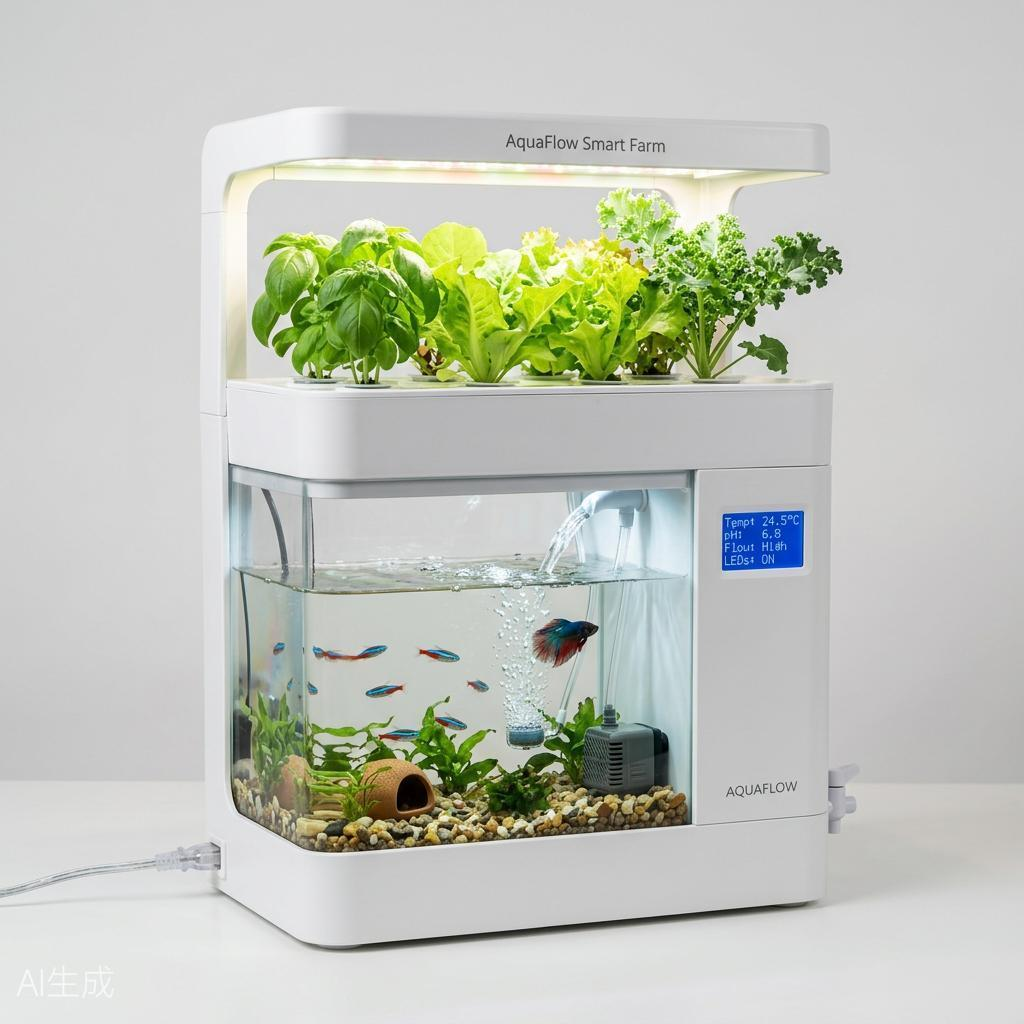
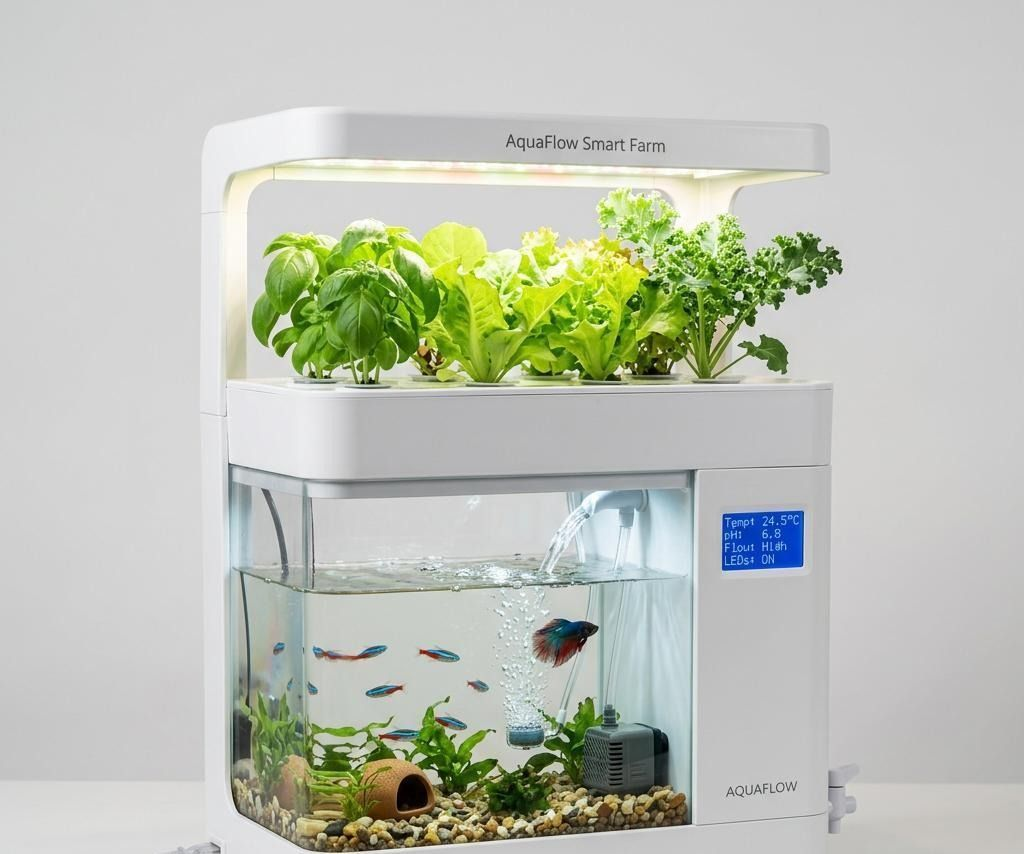
Remove AI-generation watermark from every product/facility photo
Every image in public/ had a visible "AI生成" (AI-generated) text
watermark baked into the bottom-left corner, appearing on every
product card, product detail page, and hero image sitewide. Cropped
the bottom of each image (~170px, the watermark sat at a consistent
absolute pixel position across all resolutions) to remove it
cleanly without cutting into the actual product content.

Also updates the company location from Amsterdam/Netherlands to
Hamburg/Germany across Contact (address, phone, embedded map),
Footer, Privacy Policy, Terms of Service (governing law/
jurisdiction), and the Sustainability page's manufacturing claim.

diff --git a/app/contact/page.tsx b/app/contact/page.tsx
@@ -197,7 +197,7 @@ function ContactFormAndInfo() {
                 <Phone className="h-5 w-5 text-teal" />
                 <h4 className="font-heading text-h4 text-navy">Phone</h4>
               </div>
-              <p className="text-body-sm text-navy">+31 20 123 4567</p>
+              <p className="text-body-sm text-navy">+49 40 123 4567</p>
               <p className="text-body-sm text-gray-500">Mon-Fri, 9:00-18:00 CET</p>
             </motion.div>
 
@@ -209,9 +209,7 @@ function ContactFormAndInfo() {
               </div>
               <div className="text-body-sm text-gray-500">
                 <p className="text-navy font-medium">Aquacubes B.V.</p>
-                <p>Herengracht 420</p>
-                <p>1017 BZ Amsterdam</p>
-                <p>Netherlands</p>
+                <p>Hamburg, Germany</p>
               </div>
             </motion.div>
 
@@ -251,7 +249,7 @@ function MapSection() {
       className="h-[400px] w-full bg-gray-100"
     >
       <iframe
-        src="https://www.openstreetmap.org/export/embed.html?bbox=4.88%2C52.36%2C4.89%2C52.37&layer=mapnik&marker=52.365%2C4.885"
+        src="https://www.openstreetmap.org/export/embed.html?bbox=9.98%2C53.54%2C10.01%2C53.56&layer=mapnik&marker=53.5511%2C9.9937"
         className="h-full w-full border-0"
         title="Aquacubes Office Location"
       />

diff --git a/components/store/Footer.tsx b/components/store/Footer.tsx
@@ -135,11 +135,11 @@ export default function Footer() {
                 </a>
               </li>
               <li>
-                <a href="tel:+31205551234" className="transition-colors hover:text-teal">
-                  +31 20 555 1234
+                <a href="tel:+4940123456" className="transition-colors hover:text-teal">
+                  +49 40 123 456
                 </a>
               </li>
-              <li className="text-gray-300">Amsterdam, NL</li>
+              <li className="text-gray-300">Hamburg, DE</li>
             </ul>
           </motion.div>
         </motion.div>

diff --git a/app/terms/page.tsx b/app/terms/page.tsx
@@ -192,8 +192,8 @@ function TermsContent() {
           {/* 10. Governing Law */}
           <TermsSection id="section-10" title="10. Governing Law">
             <ul className="list-disc space-y-2 pl-5">
-              <li>These terms are governed by the laws of the Netherlands</li>
-              <li>Disputes shall be resolved in the courts of Amsterdam</li>
+              <li>These terms are governed by the laws of Germany</li>
+              <li>Disputes shall be resolved in the courts of Hamburg</li>
             </ul>
           </TermsSection>
 

diff --git a/app/sustainability/page.tsx b/app/sustainability/page.tsx
@@ -193,7 +193,7 @@ function SustainablePractices() {
     },
     {
       title: "Made in the EU",
-      body: "All Aquacubes systems are designed, manufactured, and assembled in the Netherlands. Shorter supply chains mean fewer emissions and support for local industry.",
+      body: "All Aquacubes systems are designed, manufactured, and assembled in Germany. Shorter supply chains mean fewer emissions and support for local industry.",
       side: "left",
     },
   ];

diff --git a/app/privacy/page.tsx b/app/privacy/page.tsx
@@ -207,9 +207,7 @@ function PolicyContent() {
             </p>
             <p className="mt-2">
               Aquacubes B.V.<br />
-              Herengracht 420<br />
-              1017 BZ Amsterdam<br />
-              Netherlands
+              Hamburg, Germany
             </p>
           </PolicySection>
         </motion.div>
